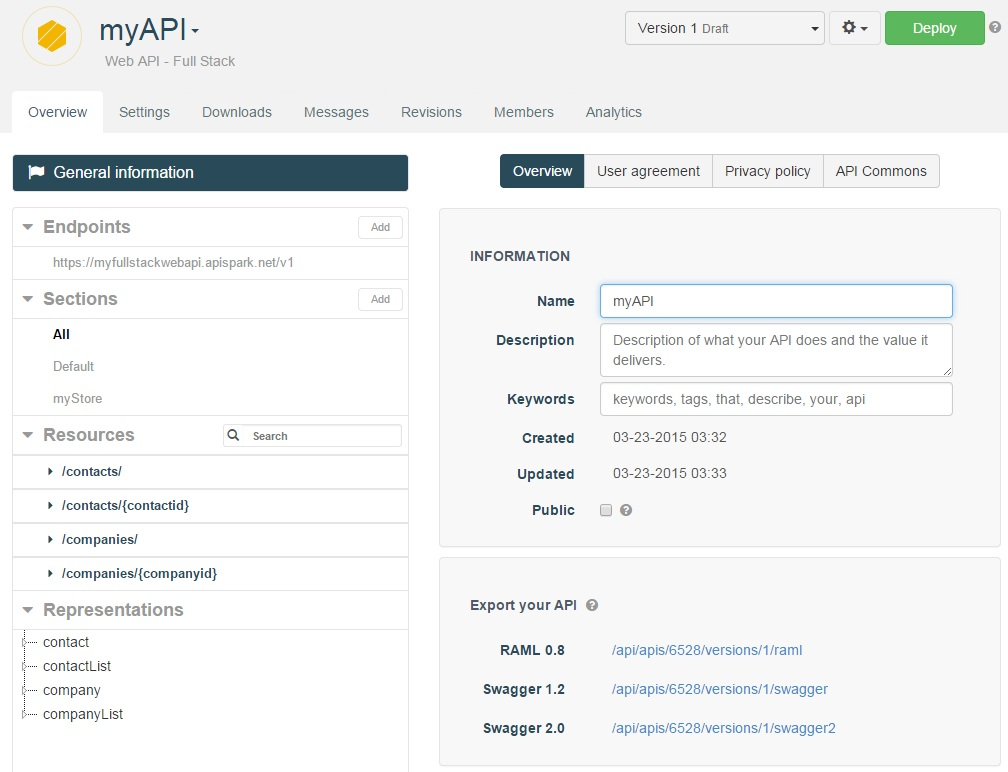
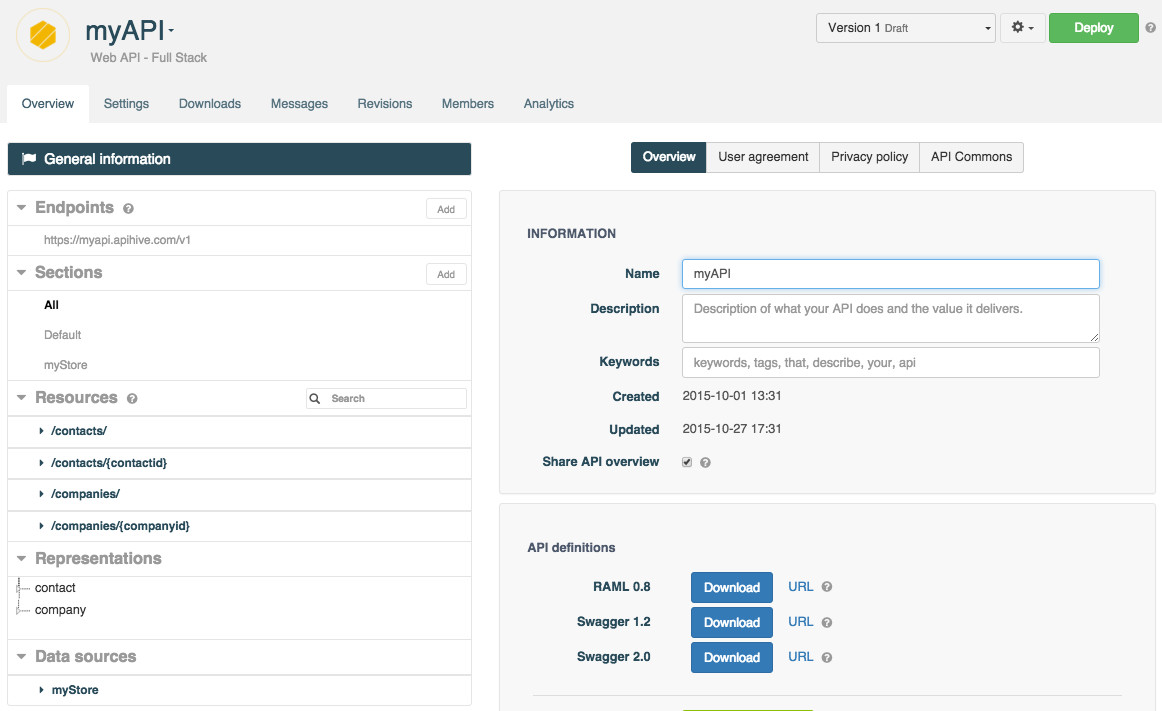
AS_Updated api definitions section

diff --git a/modules/com.restlet/tech-doc/apispark/guide/04_publish/03_publish/05_api-definition.md b/modules/com.restlet/tech-doc/apispark/guide/04_publish/03_publish/05_api-definition.md
@@ -16,11 +16,25 @@ From this page, you can export your API to the following format:
 * Swagger 1.2
 * Swagger 2.0
 
-> **Note:** Multiple versions of Swagger are supported.
+## Download your API definition
 
-### Obtain your API's Swagger definition
+From the **API definitions** section, click on the appropriate **Download** button.
 
-Click on one of the **Swagger** URLs to open the corresponding Swagger definition.
+For **RAML 0.8** definitions, you will get a .yml file.  
+For **Swagger 1.2** definitions, you will get a .zip file with .json files in it.  
+For **Swagger 2.0** definitions, you will get a .json file.
+
+
+## Get your API definition via a URL
+
+From the **API definitions** section, click on the appropriate URL to open the corresponding definition.
+
+If you have selected the **Share API overview** checkbox, you will not need to enter credentials.
+
+If you did select the **Share API overview** checkbox, you will have to enter credentials.  To get those credentials, click on your username on top right of the screen and select **My account**. You will find your credentials in the **Tokens** section.
+
+
+## Swagger 1.2 definition example
 
 The **Swagger 1.2** definition for the Contacts API looks like this:
 
